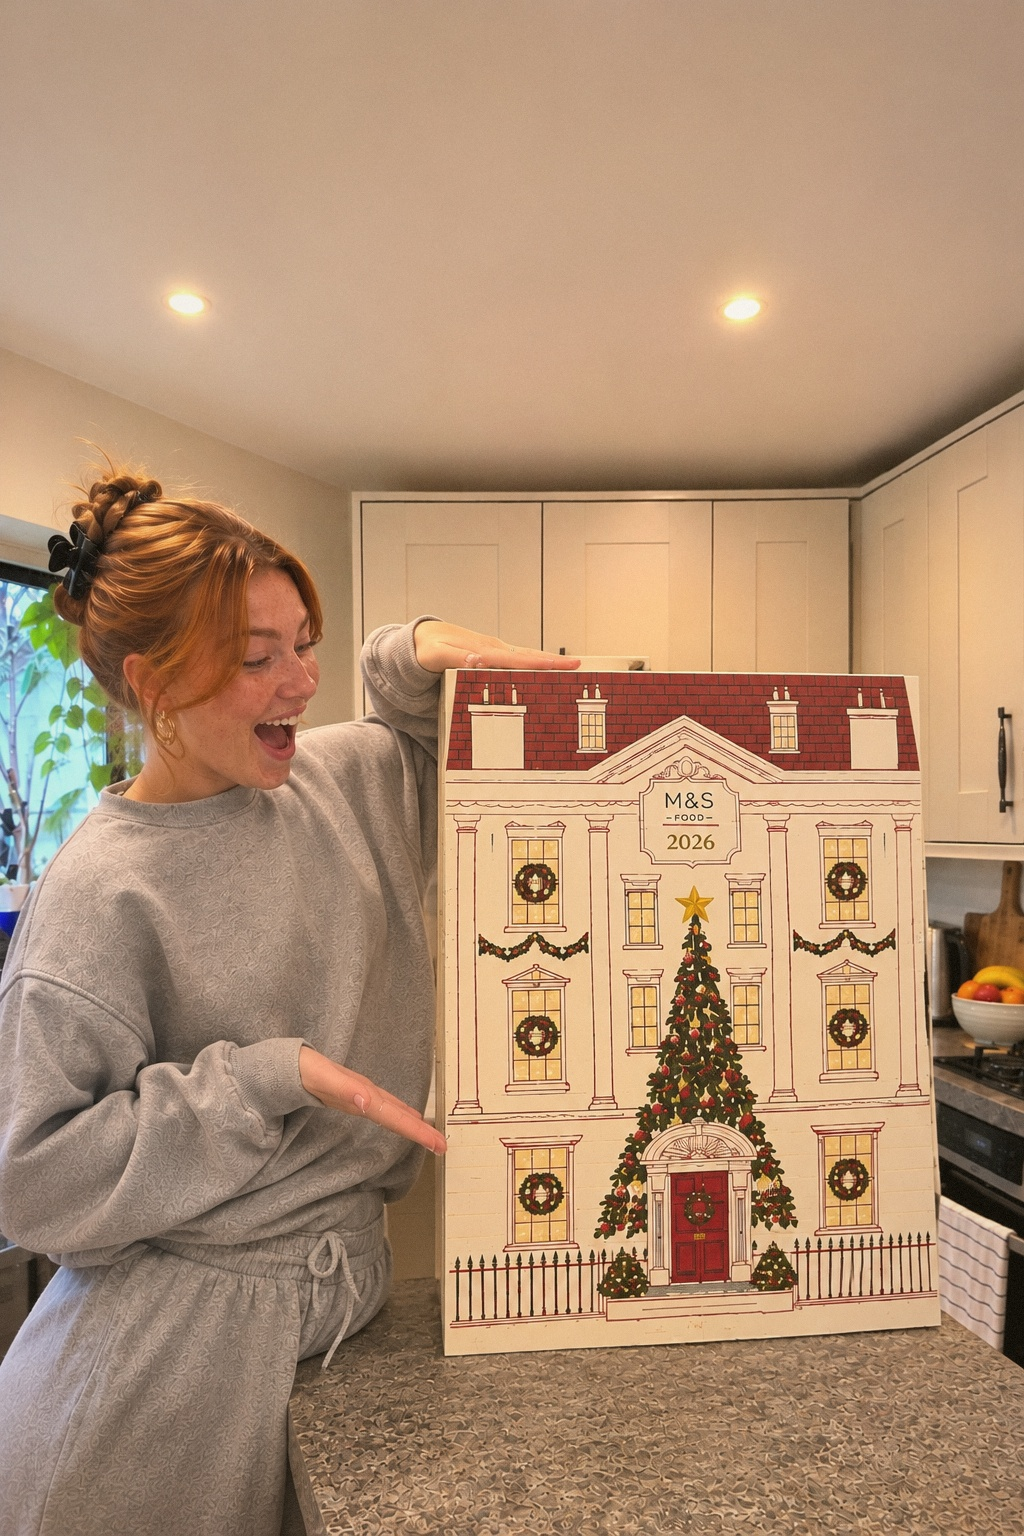
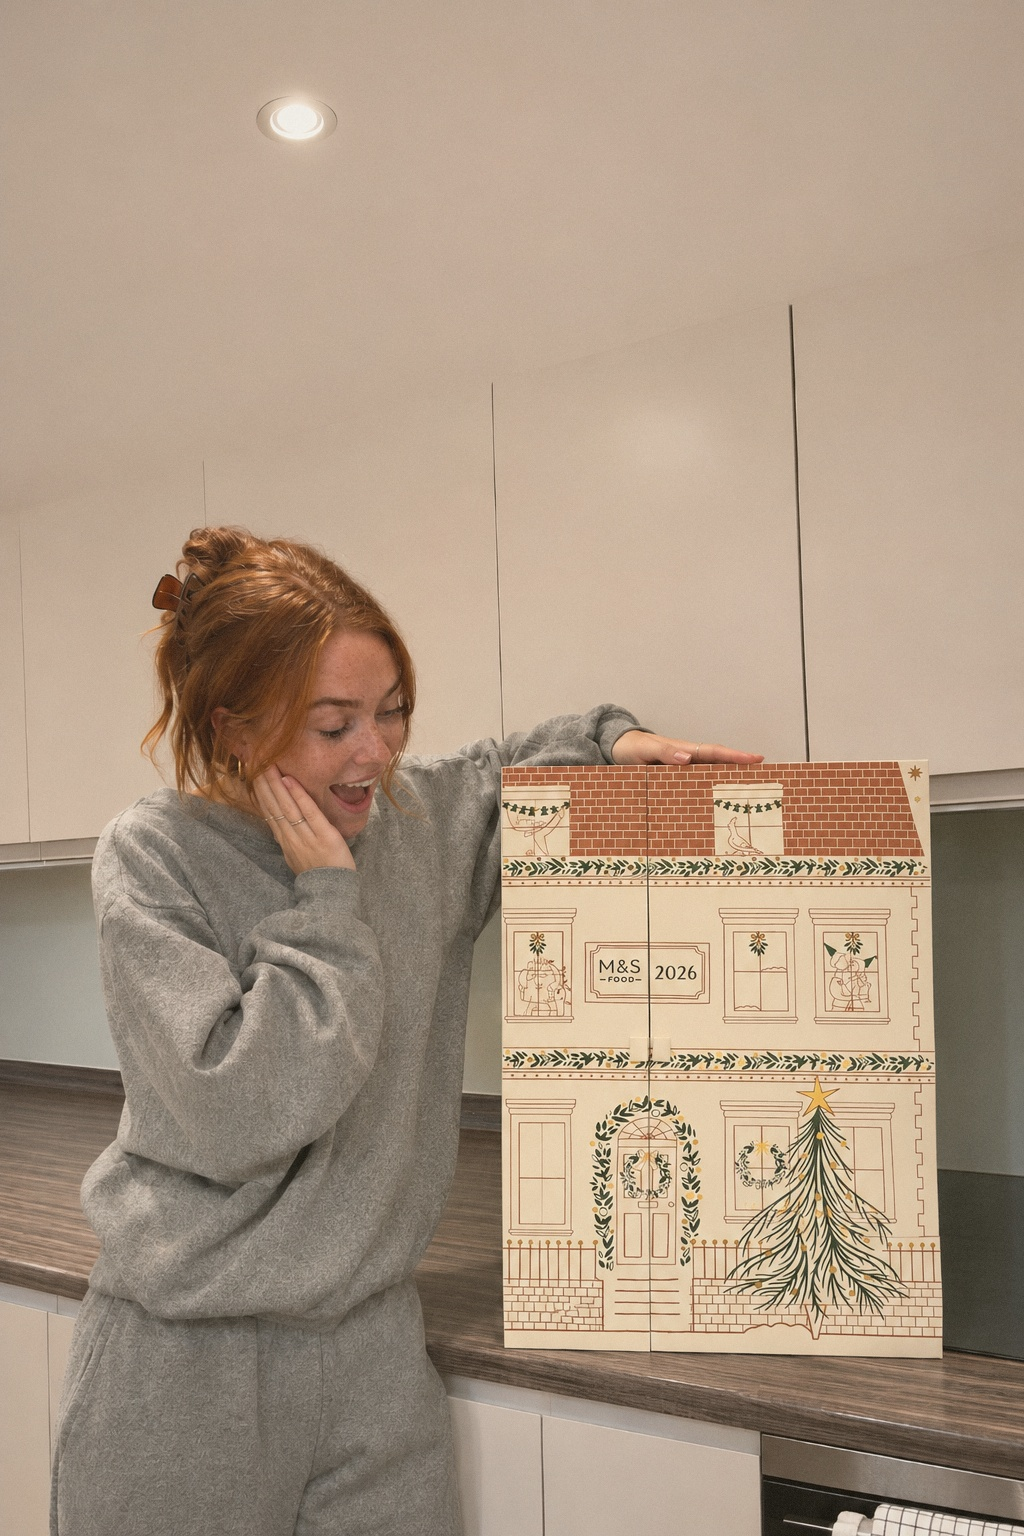
M&S advent calendar remade with real product references; product must be matched from a real photo (crops from the video if needed); chatgpt_image.js no longer saves an uploaded reference as the result
Claude-Session: https://claude.ai/code/session_01Y5GtWaWrAuZEV1WuXCYGFS

diff --git a/skills/viral-slideshow-factory/scripts/chatgpt_image.js b/skills/viral-slideshow-factory/scripts/chatgpt_image.js
@@ -76,9 +76,15 @@ const { openProfile, arg, args, sleep, firstVisible } = require('./lib');
       if (/(can't|cannot|unable to) (help|create|generate)|violat(e|es) our content polic/i.test(bodyText.slice(-1200))) return fail('REFUSED_BY_CHATGPT: ' + bodyText.slice(-400).replace(/\s+/g, ' '));
       const cands = await page.$$eval('img', (els) => els
         .filter((e) => e.naturalWidth >= 512 && !e.closest('[data-message-author-role="user"]'))
-        .map((e) => ({ src: e.currentSrc || e.src, alt: e.alt || '', blur: getComputedStyle(e).filter })));
-      const fresh = cands.filter((c) => !before.has(c.src) && !/blur/.test(c.blur));
-      const gen = fresh.filter((c) => /generated/i.test(c.alt)).pop() || fresh.pop();
+        .map((e) => {
+          // After a reload the reference photos we uploaded show up as ordinary images too; only take
+          // images ChatGPT made: alt "Generated image" or inside an assistant turn.
+          const turn = e.closest('[data-message-author-role], [data-testid^="conversation-turn"], article');
+          const role = turn ? (turn.getAttribute('data-message-author-role') || (turn.querySelector('[data-message-author-role]') || turn).getAttribute('data-message-author-role') || '') : '';
+          return { src: e.currentSrc || e.src, alt: e.alt || '', blur: getComputedStyle(e).filter, role };
+        }));
+      const fresh = cands.filter((c) => !before.has(c.src) && !/blur/.test(c.blur) && c.role !== 'user');
+      const gen = fresh.filter((c) => /generated/i.test(c.alt)).pop() || fresh.filter((c) => c.role === 'assistant').pop();
       const stillWorking = await page.locator('[data-testid="stop-button"], button[aria-label*="Stop" i]').first().isVisible().catch(() => false);
       if (gen && stillWorking && gen.src === lastSrc && Date.now() - lastReload > 60000) {
         // The image is shown but the page never hears that the reply finished (blocked live updates): reload.

diff --git a/skills/viral-slideshow-factory/SKILL.md b/skills/viral-slideshow-factory/SKILL.md
@@ -21,8 +21,9 @@ This is how the user works now. They send a **TikTok video**: an uploaded video 
    - Last slide: the video's payoff plus a soft call to action (finish.py needs one).
    - For each slide: what the photo shows (scene, framing, props, light, person), the exact text, its position, style and size. Text that was spoken or captioned in the video goes on the slide, shortened to fit.
    - Format label for the folder name, e.g. VIDEO-POV, VIDEO-DEMO, VIDEO-ROUTINE.
-4. **Get the product.** The product the user names or sends; otherwise the one tagged on the video (`meta.json` anchors / Social1). Save the listing photo as `_build/product/listing.jpg`, find its real size, note price and commission.
-5. **Make the images.** ChatGPT prompts that describe each moment as a casual phone photo (same scene with small changes: a different AI person, slightly different angle, room and props), with the product reference attached on every slide that shows it. **Never upload the video's stills to ChatGPT** and never copy a real person's face: describe the scene in words. Screen-style moments (chats, comments, notifications) are redrawn with `screens.py` / `screens2.py`.
+4. **Get the product, and a real photo of it (the user's rule, 10 Nov: the product must be super accurate).** The product the user names or sends; otherwise the one tagged on the video (`meta.json` anchors / Social1). **Check it's on TikTok Shop** (tagged product, or findable on Social1); if it isn't, tell the user before making images: there's no basket and no commission. Find its real size, note price and commission.
+   **Every slide that shows the product must be made with a real photo of it attached** (`--ref`); a written description alone gets the design wrong (wrong illustration, colours, door/drawer layout). In order of preference: the listing photos the user sends; official product photos; otherwise **tight crops of just the product from the video** (no people, no faces): pick sharp frames with `ffmpeg -ss <t>`, crop each product and each state (closed, open, inside, every item revealed) into `_build/product/`, upscale 2x. **Selfie-camera videos are mirrored: if the text on the pack reads backwards, flip the crops** (`ImageOps.mirror`). In the prompt, say the attached photos are the real product to copy exactly, and to ignore caption text, TikTok logos, people and background in them. Still write a precise description (layout, colours, numbers, print style) as a backup. Check every finished image against the crops side by side and redo any slide where the product differs.
+5. **Make the images.** ChatGPT prompts that describe each moment as a casual phone photo (same scene with small changes: a different AI person, slightly different angle, room and props), with the product reference attached on every slide that shows it. **Never upload whole video stills to ChatGPT** (only the product-only crops from step 4) and never copy a real person's face: describe the scene in words. Items revealed later in the story (what's inside, the next door) must not appear in earlier slides: say so in those prompts. Screen-style moments (chats, comments, notifications) are redrawn with `screens.py` / `screens2.py`.
 6. **Keep it honest**, the same as everywhere: no exact prices on slides, no fake urgency, invented reviews or results, no copyrighted characters or real people. Say what you changed and why.
 7. **Build, check, send**: make_slides.py, finish.py (put the video's stills in `_build/original/` first so `comparison.png` shows video moments on top, slides below), look at every slide, then send the slides and post.txt as files. In post.json set `source.mode` to `"V"` and `source.url` to the video link (leave it out for an uploaded file). Suggest using the video's sound if it's a trending sound.
 
